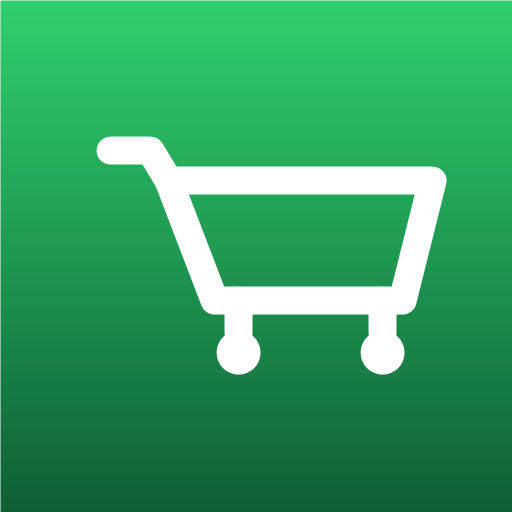
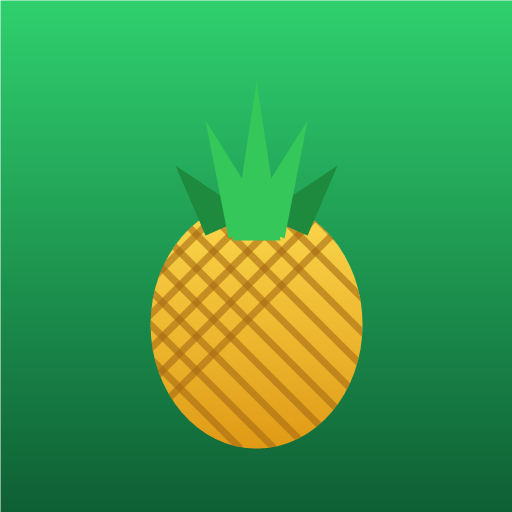
feat: layout app-shell (topo/rodape fixos) + mascara de moeda + icone abacaxi (v1.8.0)
- body vira coluna 100dvh: header fixo topo, tabbar fixa rodape, .app-main rola no meio
- scroll-lock e switchScreen passam a agir no .app-main
- preco com mascara BR ao digitar (digitos=centavos -> 0,00 -> 1.234,56); iePrice e item-price inline
- icone do app: abacaxi (GDI+), icons/icon-192/512.png
- sw cache v11

Changed region(s): [[0.1875, 0.25, 0.875, 0.875]]

diff --git a/js/app.js b/js/app.js
@@ -5,9 +5,17 @@
   const $ = (s, r = document) => r.querySelector(s);
   const $$ = (s, r = document) => [...r.querySelectorAll(s)];
 
-  const APP_VERSION = "1.7.0";
-  const VERSION_NOTES = "Página de Insights + cards novos 📊";
+  const APP_VERSION = "1.8.0";
+  const VERSION_NOTES = "Layout fixo + preço com máscara + ícone 🍍";
   const CHANGELOG = [
+    {
+      v: "1.8.0",
+      itens: [
+        "Topo e a barra de baixo agora ficam <b>sempre fixos</b> — só a lista rola no meio 📱",
+        "Preço com <b>máscara automática</b>: é só digitar os números que ele vira <b>1.234,56</b> sozinho 💰",
+        "Novo <b>ícone do app</b>: um abacaxi 🍍"
+      ]
+    },
     {
       v: "1.7.0",
       itens: [
@@ -89,6 +97,11 @@
     if (v >= 1000) return "R$ " + (v / 1000).toFixed(v >= 10000 ? 0 : 1).replace(".", ",") + "k";
     return "R$ " + Math.round(v);
   };
+  // máscara de moeda: digita só números → 0,00 → 1.234,56 (dígitos = centavos)
+  const fmtCentsBR = (cents) => (cents / 100).toLocaleString("pt-BR", { minimumFractionDigits: 2, maximumFractionDigits: 2 });
+  function maskMoney(el) { const d = (el.value || "").replace(/\D/g, ""); el.value = d ? fmtCentsBR(parseInt(d, 10)) : ""; }
+  const parseMoneyStr = (s) => { const d = (s || "").replace(/\D/g, ""); return d ? parseInt(d, 10) / 100 : 0; };
+  const fmtPrice = (n) => (n != null ? fmtCentsBR(Math.round(n * 100)) : "");
 
   /* ---------- emoji render (webp animado c/ fallback pro char) ---------- */
   function emojiFallback(img) {
@@ -143,7 +156,7 @@
             <div class="item-meta">${meta}</div>
           </button>
           ${it.comprado
-            ? `<input class="item-price" data-act="price" inputmode="decimal" placeholder="R$" value="${it.preco != null ? String(it.preco).replace(".", ",") : ""}">`
+            ? `<input class="item-price" data-act="price" inputmode="numeric" placeholder="R$" value="${fmtPrice(it.preco)}">`
             : ``}
           <span class="item-go" data-act="edit" aria-hidden="true">
             <svg viewBox="0 0 24 24" width="18" height="18" fill="none" stroke="currentColor" stroke-width="2.4" stroke-linecap="round" stroke-linejoin="round"><polyline points="9 6 15 12 9 18"/></svg>
@@ -181,8 +194,9 @@
   }
   function onListInput(e) {
     const inp = e.target.closest(".item-price"); if (!inp) return;
+    maskMoney(inp);
     const id = e.target.closest(".item").dataset.id;
-    S.setPrice(id, (inp.value || "").replace(",", "."));
+    S.setPrice(id, inp.value.trim() === "" ? "" : parseMoneyStr(inp.value));
     // atualiza só o resumo (não re-renderiza pra não perder foco)
     const lista = S.raw.lista, done = lista.filter(i => i.comprado);
     $("#lsTotal").textContent = moneyShort(done.reduce((s, i) => s + (i.preco || 0) * i.qtd, 0));
@@ -214,13 +228,13 @@
     $("#ieName").value = it.nome;
     $("#ieQty").value = it.qtd;
     const pref = it.preco != null ? it.preco : S.lastPrice(it.nome);   // valor aprendido (não precisa digitar)
-    $("#iePrice").value = pref != null ? String(pref).replace(".", ",") : "";
+    $("#iePrice").value = fmtPrice(pref);
     updateIeEmoji(); updateIeSub();
     openModal("#itemModal");
   }
   function updateIeEmoji() { $("#ieEmoji").innerHTML = emojiHTML(S.matchEmoji($("#ieName").value || "")); }
   const ieQtyVal = () => Math.max(1, Math.min(999, parseInt($("#ieQty").value, 10) || 1));
-  const iePriceVal = () => { const v = ($("#iePrice").value || "").replace(",", "."); return v === "" || isNaN(v) ? 0 : Math.max(0, +v); };
+  const iePriceVal = () => parseMoneyStr($("#iePrice").value);
   function updateIeSub() { $("#ieSub").textContent = money(ieQtyVal() * iePriceVal()); }
 
   /* ---------- seleção / excluir vários + desfazer ---------- */
@@ -524,19 +538,10 @@
   /* =========================================================
      MODAIS / TOAST / NAV
   ========================================================= */
-  let scrollLockY = 0;
   function syncScrollLock() {
     const anyOpen = !!document.querySelector(".modal:not(.hidden)");
-    const locked = document.body.classList.contains("locked");
-    if (anyOpen && !locked) {
-      scrollLockY = window.scrollY || document.documentElement.scrollTop || 0;
-      document.body.style.top = "-" + scrollLockY + "px";
-      document.body.classList.add("locked");
-    } else if (!anyOpen && locked) {
-      document.body.classList.remove("locked");
-      document.body.style.top = "";
-      window.scrollTo(0, scrollLockY);
-    }
+    const main = document.querySelector(".app-main");
+    if (main) main.style.overflowY = anyOpen ? "hidden" : "auto";
   }
   function openModal(sel) { $(sel).classList.remove("hidden"); syncScrollLock(); }
   function closeModal(sel) { $(sel).classList.add("hidden"); syncScrollLock(); }
@@ -648,7 +653,7 @@
   function switchScreen(id) {
     $$(".screen").forEach(s => s.classList.toggle("active", s.id === id));
     $$(".tab").forEach(t => t.classList.toggle("active", t.dataset.scr === id));
-    window.scrollTo({ top: 0, behavior: "instant" in window ? "instant" : "auto" });
+    const m = document.querySelector(".app-main"); if (m) m.scrollTop = 0;
   }
 
   function refreshItemNames() {
@@ -683,7 +688,7 @@
     $("#ieMinus").addEventListener("click", () => { $("#ieQty").value = Math.max(1, ieQtyVal() - 1); updateIeSub(); });
     $("#iePlus").addEventListener("click", () => { $("#ieQty").value = Math.min(999, ieQtyVal() + 1); updateIeSub(); });
     $("#ieQty").addEventListener("input", updateIeSub);
-    $("#iePrice").addEventListener("input", updateIeSub);
+    $("#iePrice").addEventListener("input", () => { maskMoney($("#iePrice")); updateIeSub(); });
     $("#ieSave").addEventListener("click", () => {
       if (!curItem) return;
       S.renameItem(curItem, $("#ieName").value);

diff --git a/css/styles.css b/css/styles.css
@@ -42,8 +42,11 @@ body {
     var(--bg);
   transition: background-color .2s, color .2s;
   color: var(--text);
-  min-height: 100dvh;
-  overscroll-behavior-y: none;
+  height: 100dvh;
+  display: flex;
+  flex-direction: column;
+  overflow: hidden;
+  overscroll-behavior: none;
   -webkit-font-smoothing: antialiased;
 }
 img.emoji-anim { width: 1.15em; height: 1.15em; object-fit: contain; vertical-align: -0.22em; display: inline-block; }
@@ -53,11 +56,11 @@ body.locked { position: fixed; left: 0; right: 0; width: 100%; overflow: hidden;
 
 /* ===== HEADER ===== */
 .app-header {
-  position: sticky; top: 0; z-index: 40;
+  position: relative; z-index: 40; flex: none;
   padding: calc(var(--sat) + 14px) 16px 12px;
   display: flex; align-items: center; justify-content: space-between; gap: 12px;
-  background: linear-gradient(180deg, var(--header-bg), transparent);
-  backdrop-filter: blur(12px); -webkit-backdrop-filter: blur(12px);
+  background: transparent;
+  border-bottom: 1px solid var(--line);
 }
 .hdr-brand { display: flex; align-items: center; gap: 11px; min-width: 0; }
 .hdr-mascot { width: 40px; height: 40px; filter: drop-shadow(0 4px 10px rgba(0,0,0,.4)); }
@@ -73,7 +76,8 @@ body.locked { position: fixed; left: 0; right: 0; width: 100%; overflow: hidden;
 .icon-btn:active { transform: scale(.92); background: rgba(255,255,255,.12); }
 
 /* ===== MAIN / SCREENS ===== */
-.app-main { padding: 8px 14px calc(var(--tabh) + var(--sab) + 96px); max-width: 640px; margin: 0 auto; }
+.app-main { flex: 1; overflow-y: auto; overscroll-behavior: contain; -webkit-overflow-scrolling: touch;
+  padding: 10px 14px 96px; width: 100%; max-width: 640px; margin: 0 auto; }
 .screen { display: none; animation: fadeIn .22s ease; }
 .screen.active { display: block; }
 @keyframes fadeIn { from { opacity: 0; transform: translateY(6px);} to { opacity: 1; transform: none; } }
@@ -191,9 +195,9 @@ body.locked { position: fixed; left: 0; right: 0; width: 100%; overflow: hidden;
 
 /* ===== TAB BAR ===== */
 .tabbar {
-  position: fixed; left: 0; right: 0; bottom: 0; z-index: 50;
+  position: relative; z-index: 50; flex: none;
   height: calc(var(--tabh) + var(--sab)); padding-bottom: var(--sab);
-  display: flex; background: var(--tab-bg); backdrop-filter: blur(16px); -webkit-backdrop-filter: blur(16px);
+  display: flex; background: var(--bg2);
   border-top: 1px solid var(--line);
 }
 .tab {

diff --git a/sw.js b/sw.js
@@ -1,5 +1,5 @@
 /* Service Worker — network-first (sempre busca a versão nova; cache só p/ offline) */
-const CACHE = "mylist-v10";
+const CACHE = "mylist-v11";
 const EMOJIS = [
   "abacate","abacaxi","aceno","alho","bacon","batata","biscoito","brilho","brocolis","burrito",
   "cachorroquente","cafe","carrinho","cebola","cenoura","cereja","cha","check","cogumelo","donut",